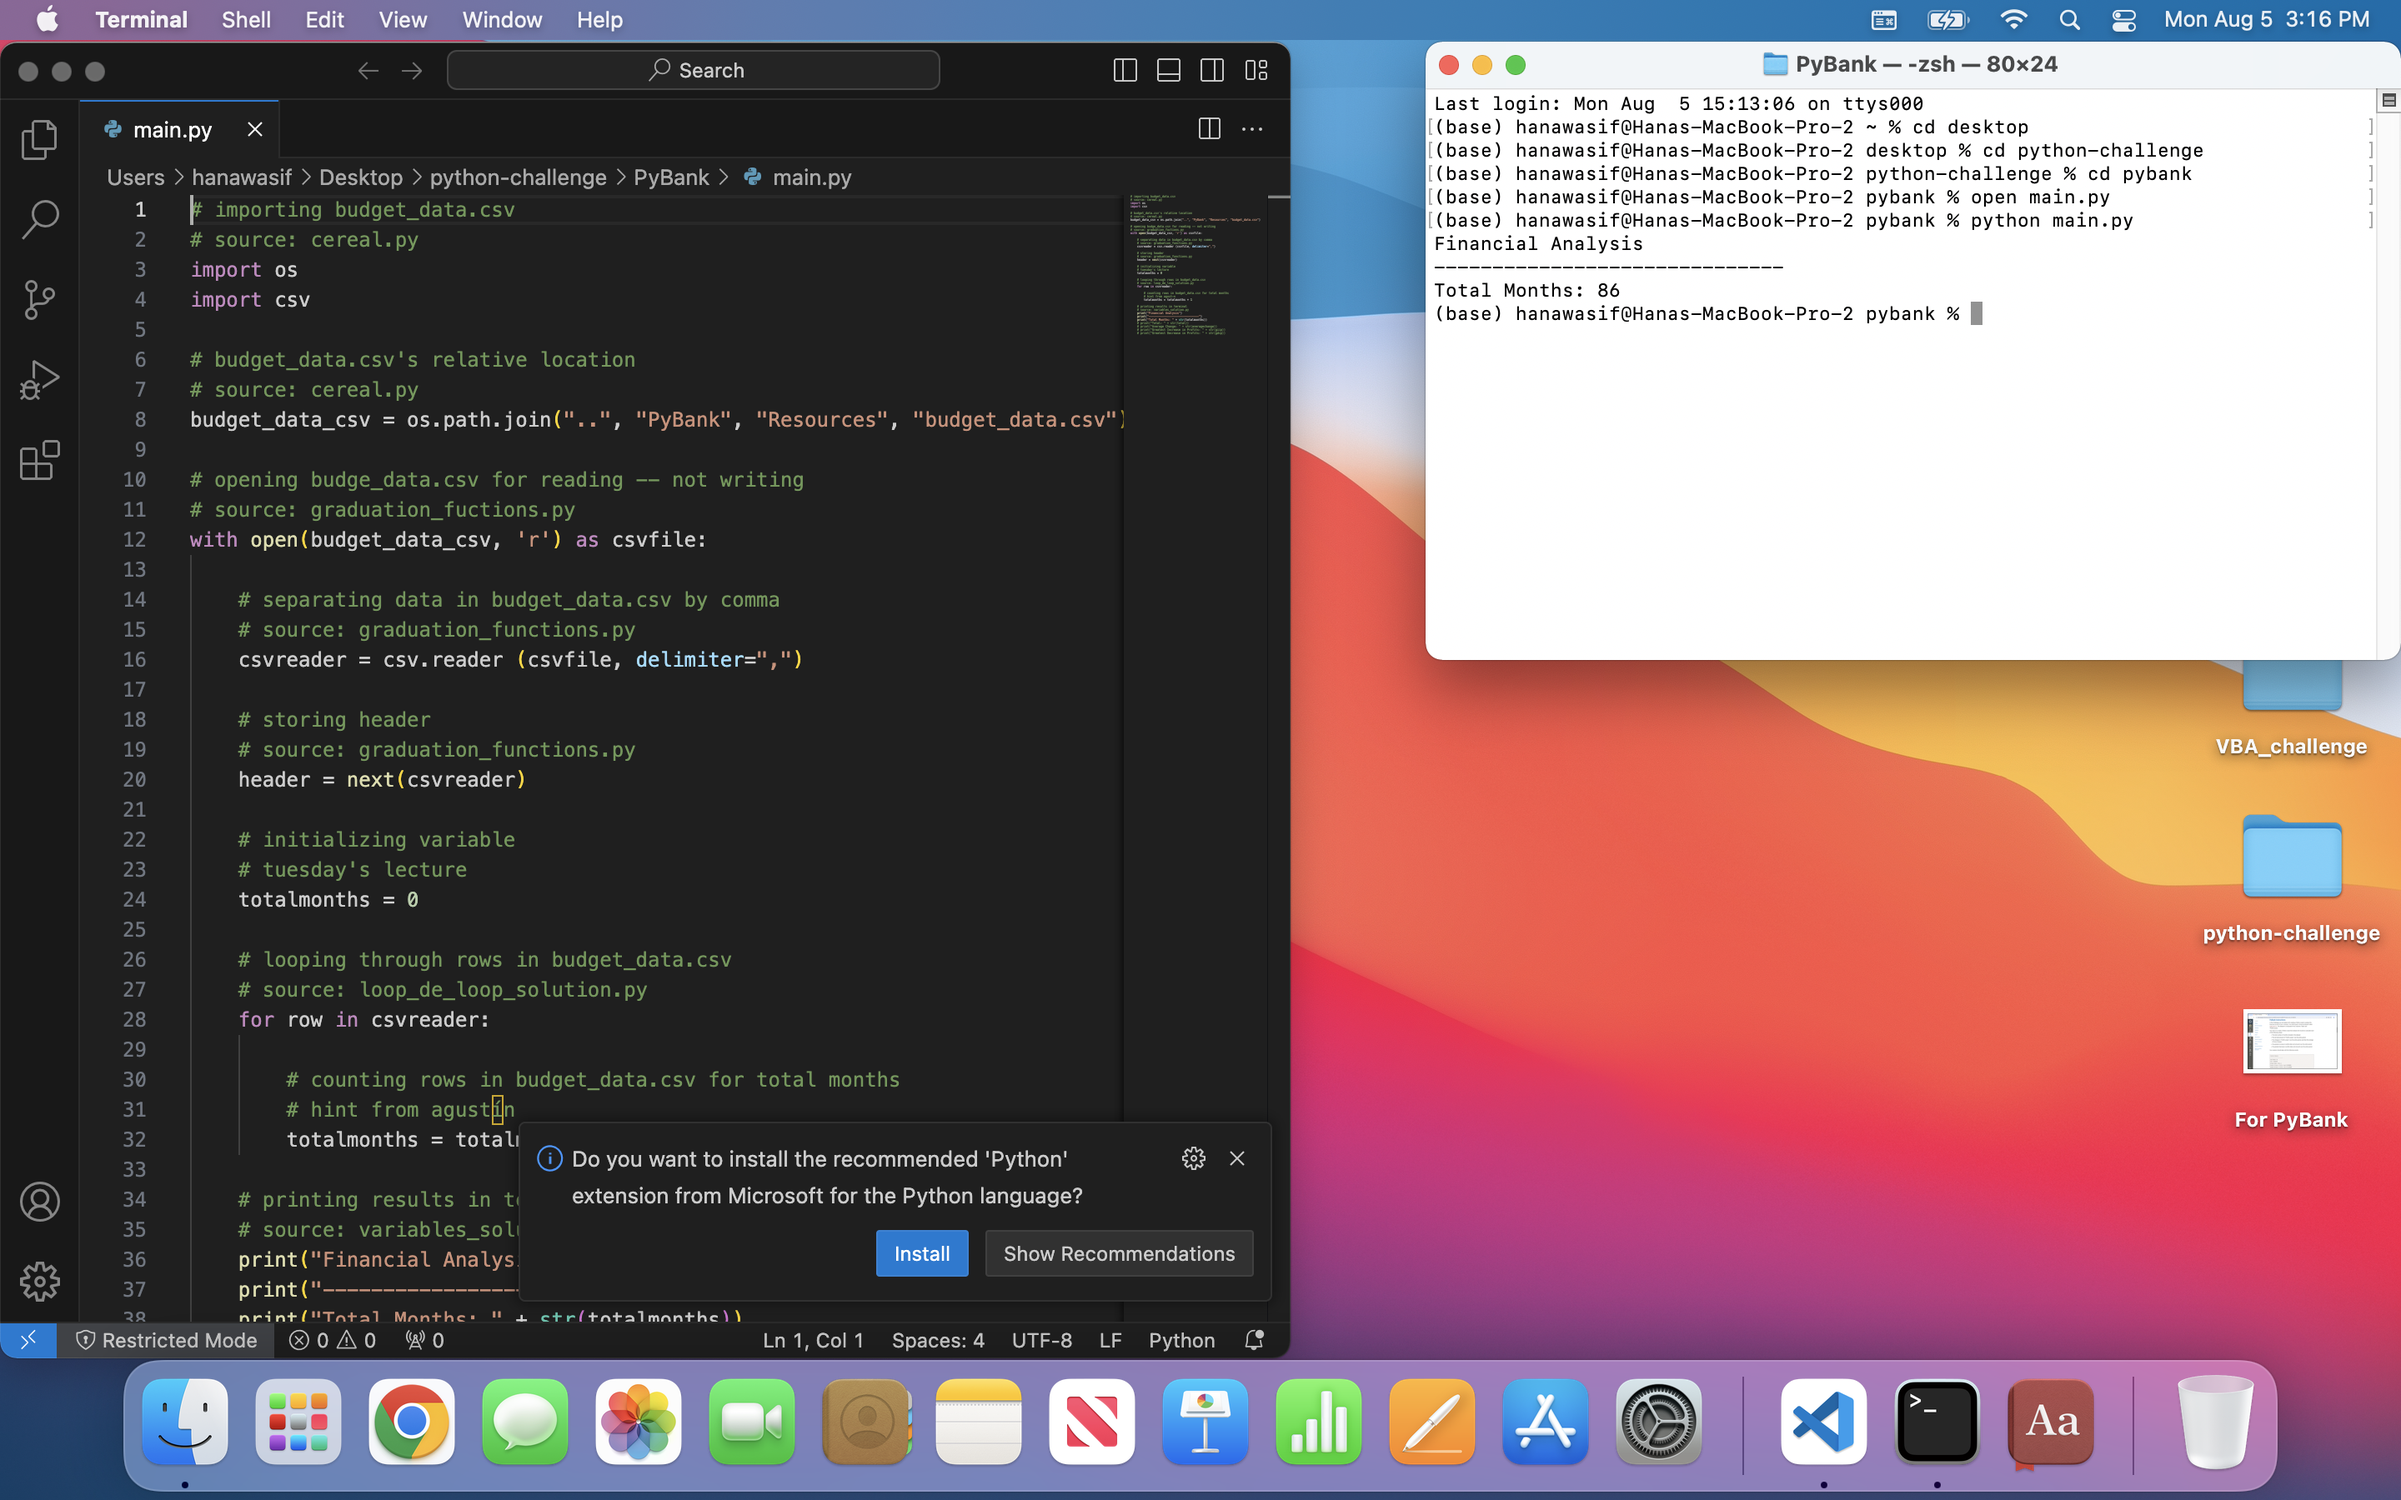
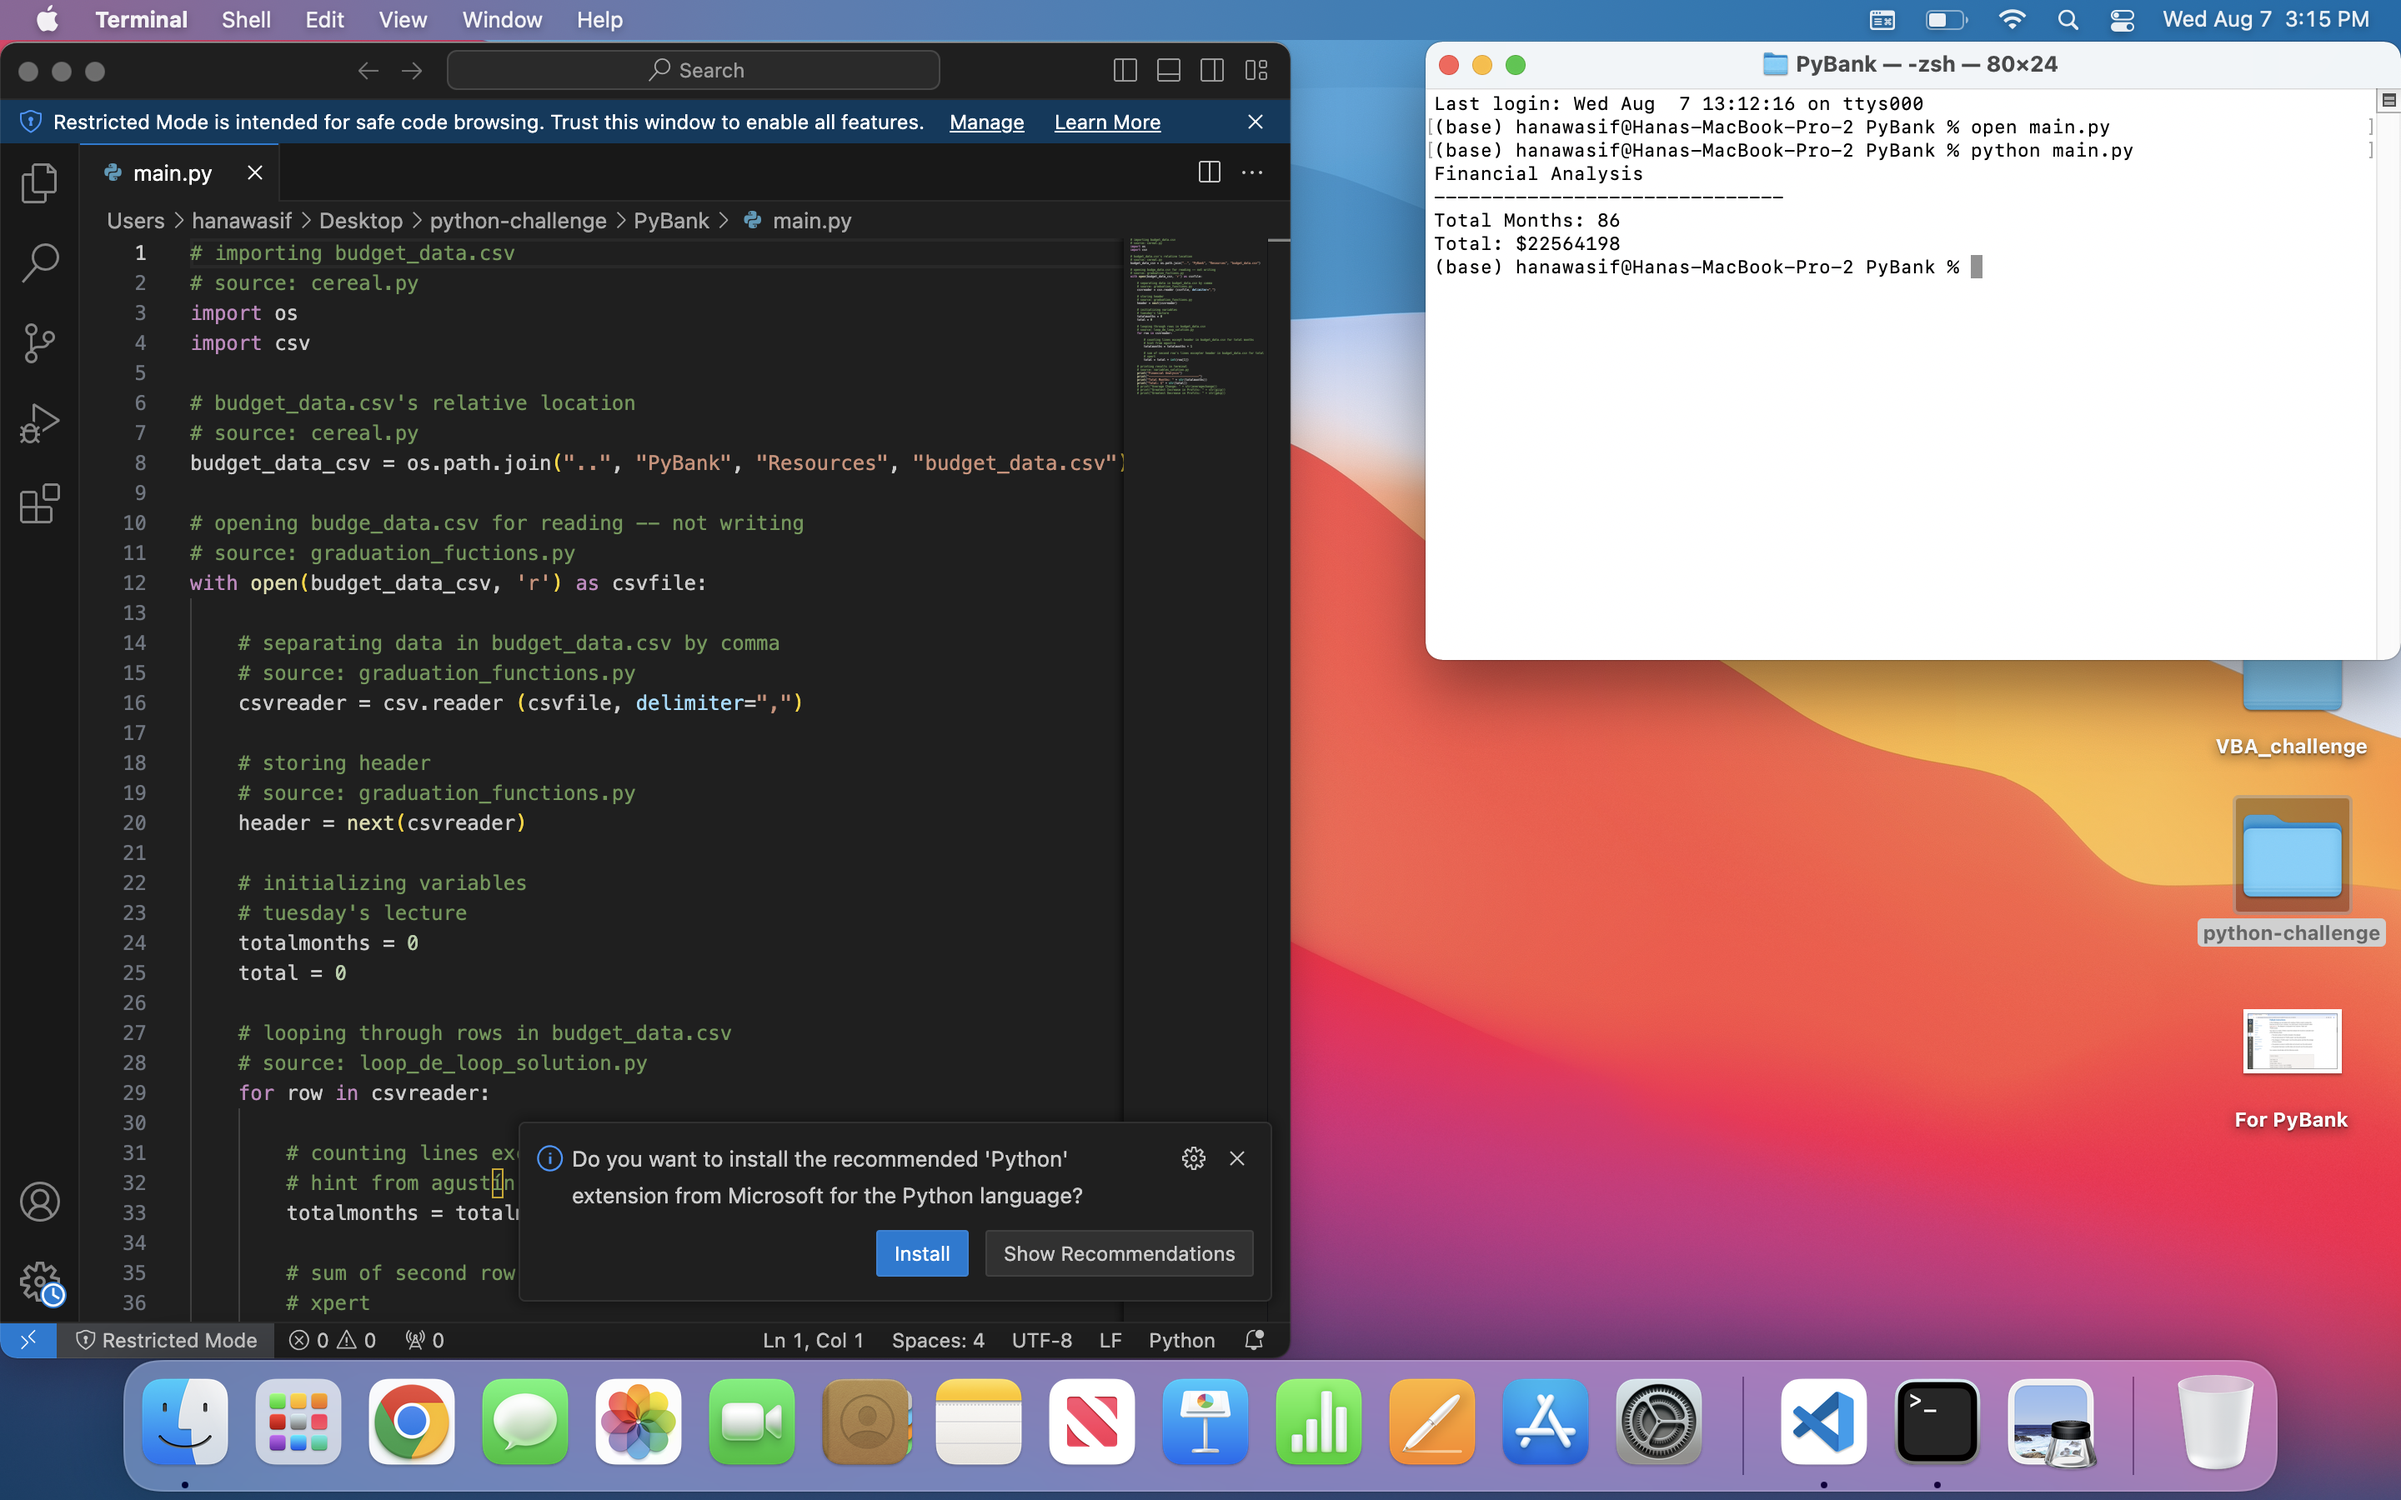
pybank's second step

diff --git a/PyBank/main.py b/PyBank/main.py
@@ -19,24 +19,29 @@ with open(budget_data_csv, 'r') as csvfile:
     # source: graduation_functions.py
     header = next(csvreader)
 
-    # initializing variable
+    # initializing variables
     # tuesday's lecture
     totalmonths = 0
+    total = 0
 
     # looping through rows in budget_data.csv
     # source: loop_de_loop_solution.py
     for row in csvreader:
 
-        # counting rows in budget_data.csv for total months
+        # counting lines except header in budget_data.csv for total months
         # hint from agustín
         totalmonths = totalmonths + 1
+
+        # sum of second row's lines excepter header in budget_data.csv for total
+        # xpert
+        total = total + int(row[1])
 
     # printing results in terminal
     # source: variables_solution.py
     print("Financial Analysis")
     print("------------------------------")
     print("Total Months: " + str(totalmonths))
-    # print("Total: " + str(total))
+    print("Total: $" + str(total))
     # print("Average Change: " + str(averagechange))
     # print("Greatest Increase in Profits: " + str(giip))
     # print("Greatest Decrease in Profits: " + str(gdip))
